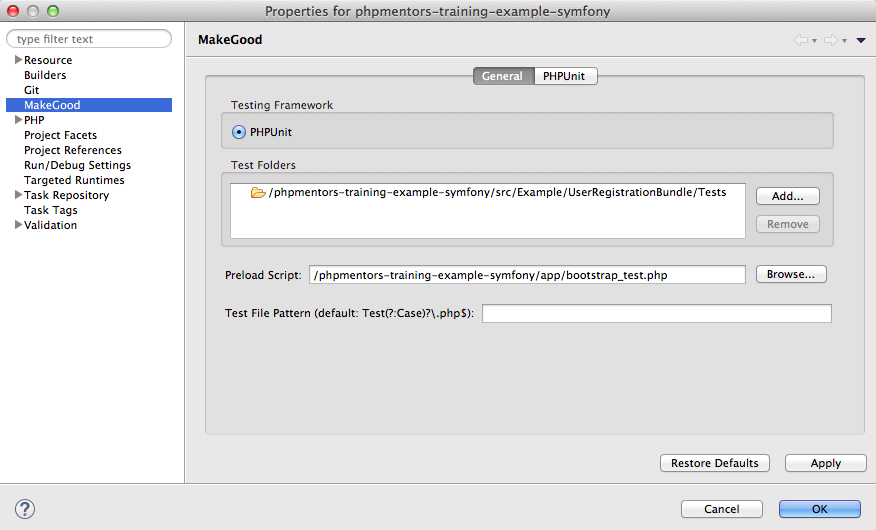
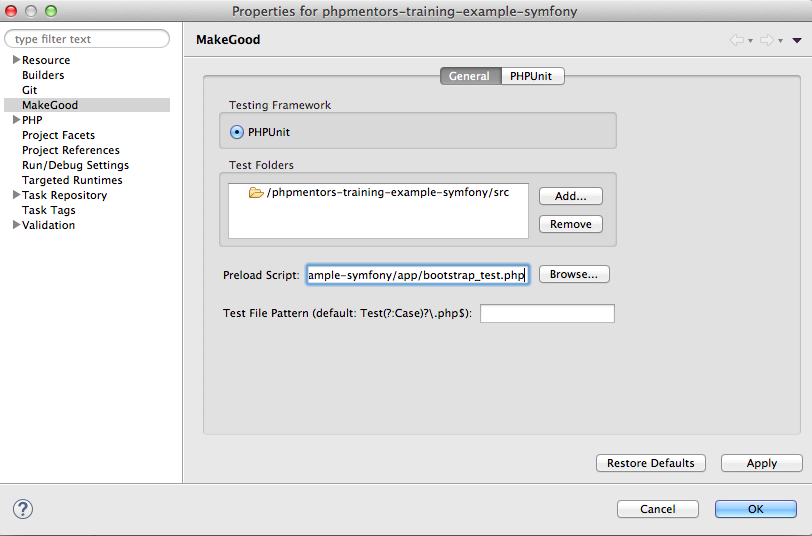
deploy at 2014-11-26 00:23:17 +0900

diff --git a/php/2014/11/24/makegood_composer/index.html b/php/2014/11/24/makegood_composer/index.html
@@ -79,10 +79,15 @@
   <li>[General]</li>
 </ul>
 
-<p>[Add] your [Test Folders].
-Set the [Preload Script:] to your bootstrap file.</p>
+<p>[Add] your [Test Folders]. 
+Set the [Preload Script] to your bootstrap file.</p>
 
 <p>Example:</p>
+
+<p><code>
+[Test Folders] your-project_path/src, 
+[Preload Script] bootstrap_test.php
+</code></p>
 
 <p><img src="/assets/images/201411/1_properties_makegood_general.png" /></p>
 
@@ -99,12 +104,6 @@ Set the [Preload Script:] to your bootstrap file.</p>
 <p>Your project path.</p>
 
 <p><img src="/assets/images/201411/3_properties_buildpath.png" /></p>
-
-<h4 id="php---include-path">PHP - [Include Path]</h4>
-
-<p>Your project path.</p>
-
-<p><img src="/assets/images/201411/4_properties_include_path.png" /></p>
 
 <h3 id="and-youre-done">And you’re DONE!</h3>
 
